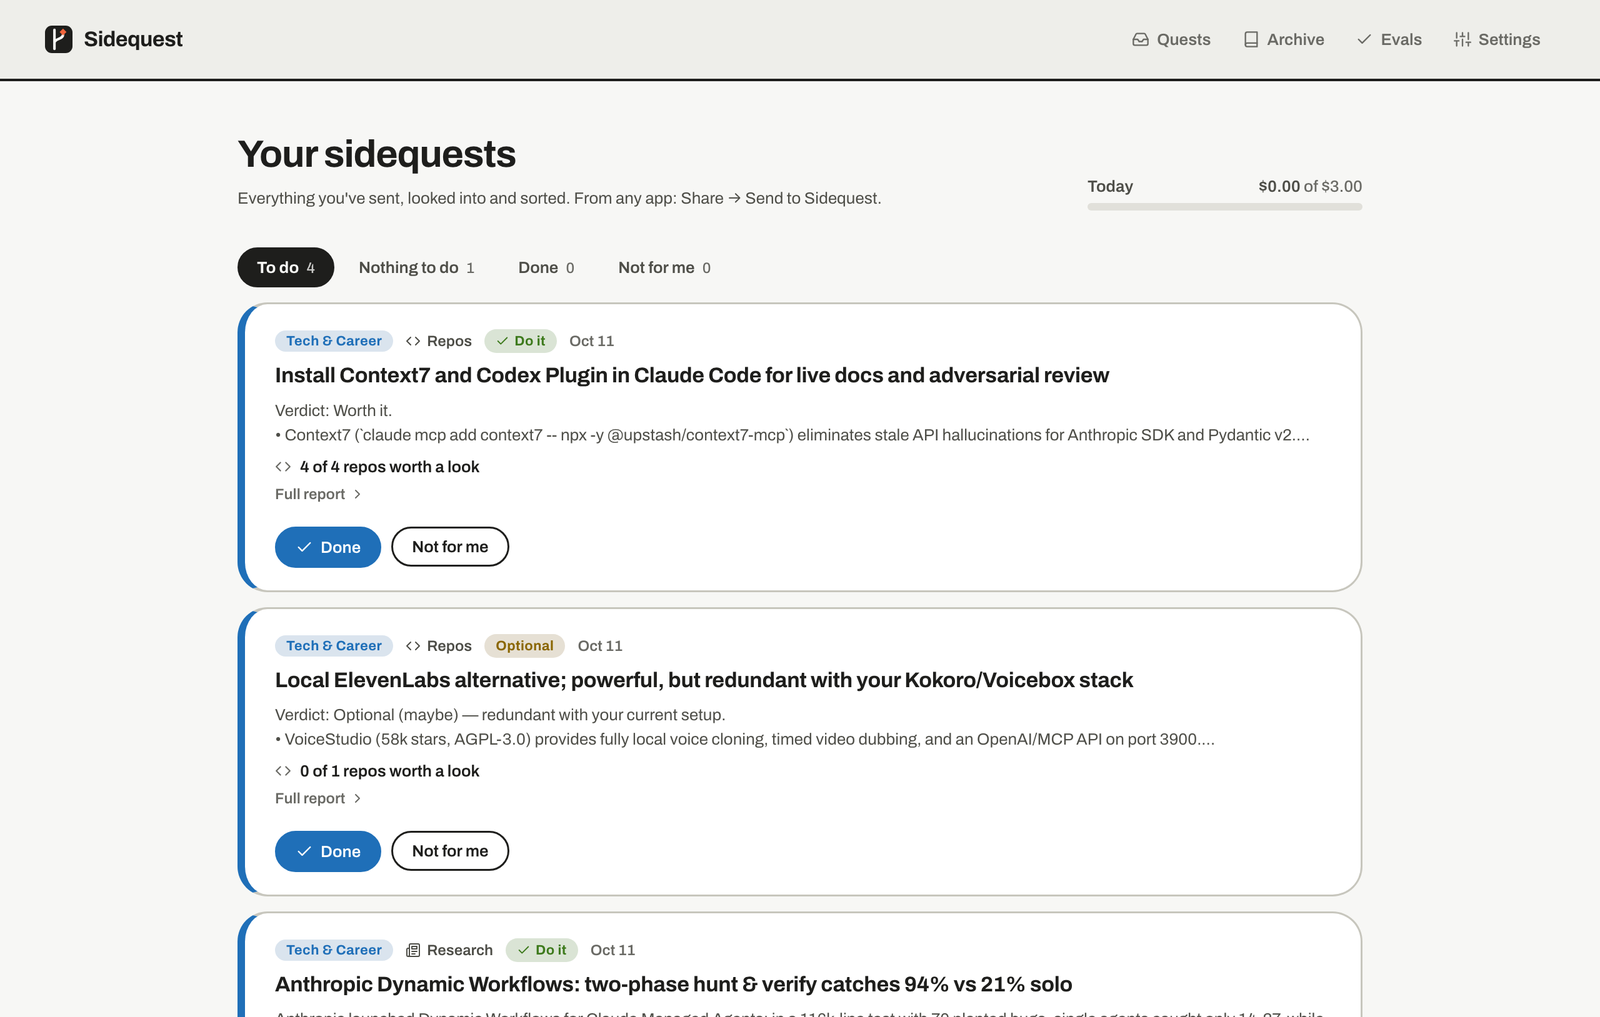
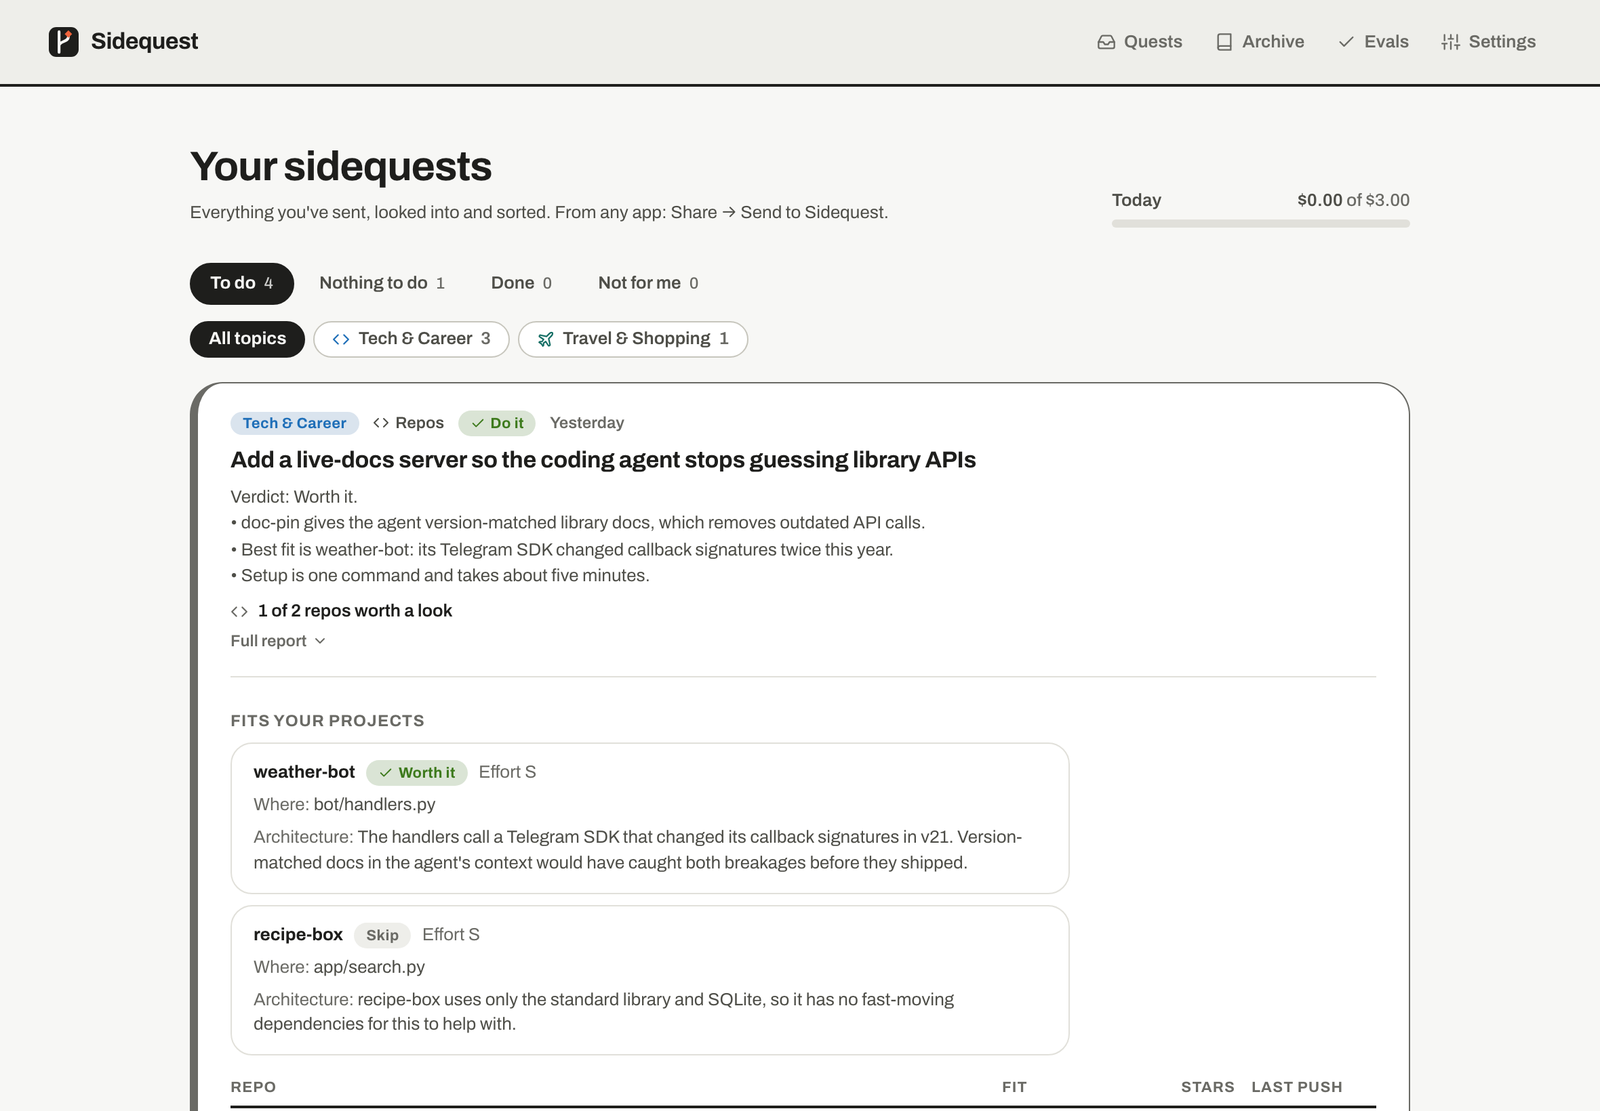
README screenshot uses sample data and shows an open report

diff --git a/README.md b/README.md
@@ -10,7 +10,7 @@ and puts a clear next step on your **To do** list, so you actually act on it
 instead of it sitting in your saves. A researched video costs about $0.03–0.06;
 links and screenshots cost less.
 
-![The home page: researched items on a To do list, each with a verdict and a next step](docs/screenshot-home.png)
+![The home page with sample data: a To do list with one report open, showing a verdict and how a tool fits each project](docs/screenshot-home.png)
 
 - **New tools and agent skills, judged against your own projects.** The agent
   reads your project code and tells you whether a tool is worth adopting, where
